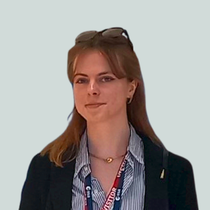
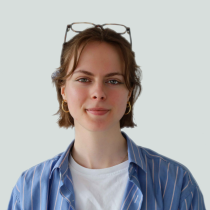
feat: update readme and images

diff --git a/README.md b/README.md
@@ -7,7 +7,7 @@ This is the website of the CDROMS robotics team.
 [![License: CC BY-NC-SA 4.0](https://img.shields.io/badge/License-CC%20BY--NC--SA%204.0-e557f9.svg)](LICENSE-CC)
 ![Stars](https://img.shields.io/github/stars/CDROMS-Robotics/cdroms-robotics.github.io?style=social)
 
-![cdroms](https://github.com/user-attachments/assets/efd5609f-3e75-4364-b509-2203a587a18e)
+![cdroms](/public/restricted-assets/cdroms/logos/cdroms-readme.jpg)
 
 ## Development setup
 

diff --git a/public/restricted-assets/README.md b/public/restricted-assets/README.md
@@ -2,5 +2,4 @@ LICENSE NOTICE
 ===
 
 Except as stated elsewhere in this repository, the material in this directory (and its subdirectories) is **not**
-licensed under the GPL or CC licenses of this repository. Some assets are owned by third parties, others by the project
-author.
+licensed under the GPL or CC licenses of this repository. Some assets are owned by third parties, others by the project author.
